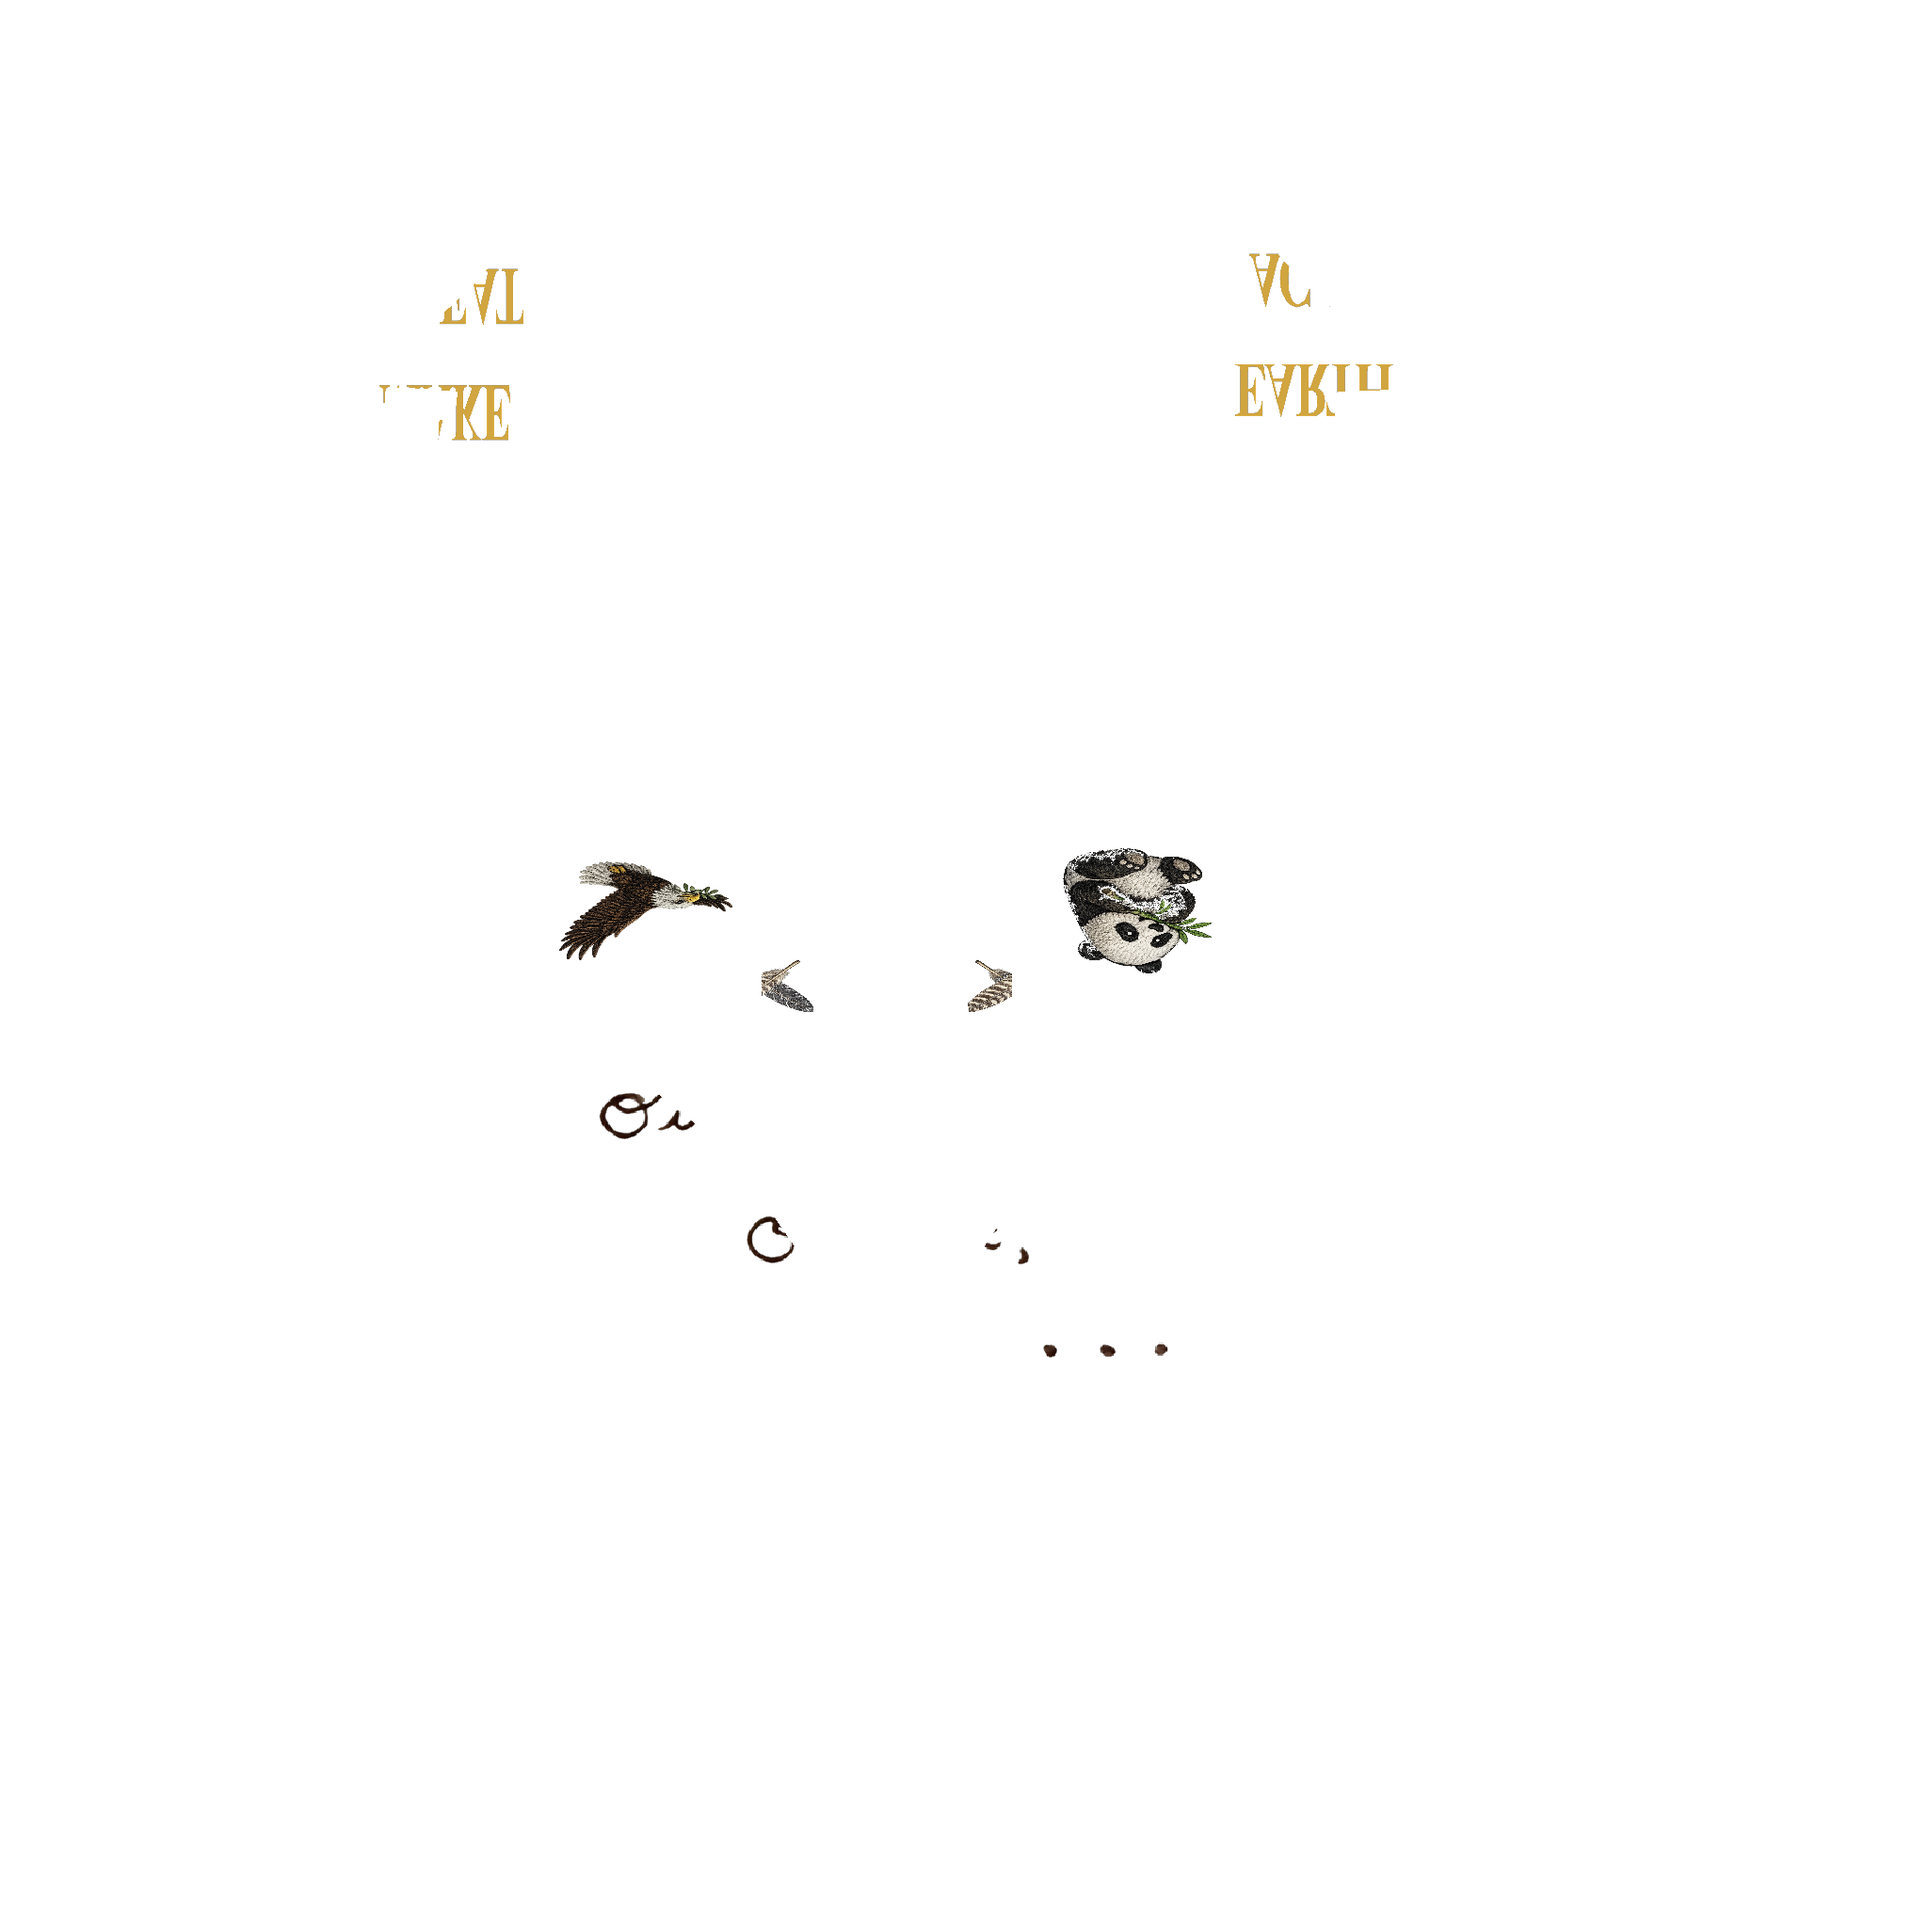
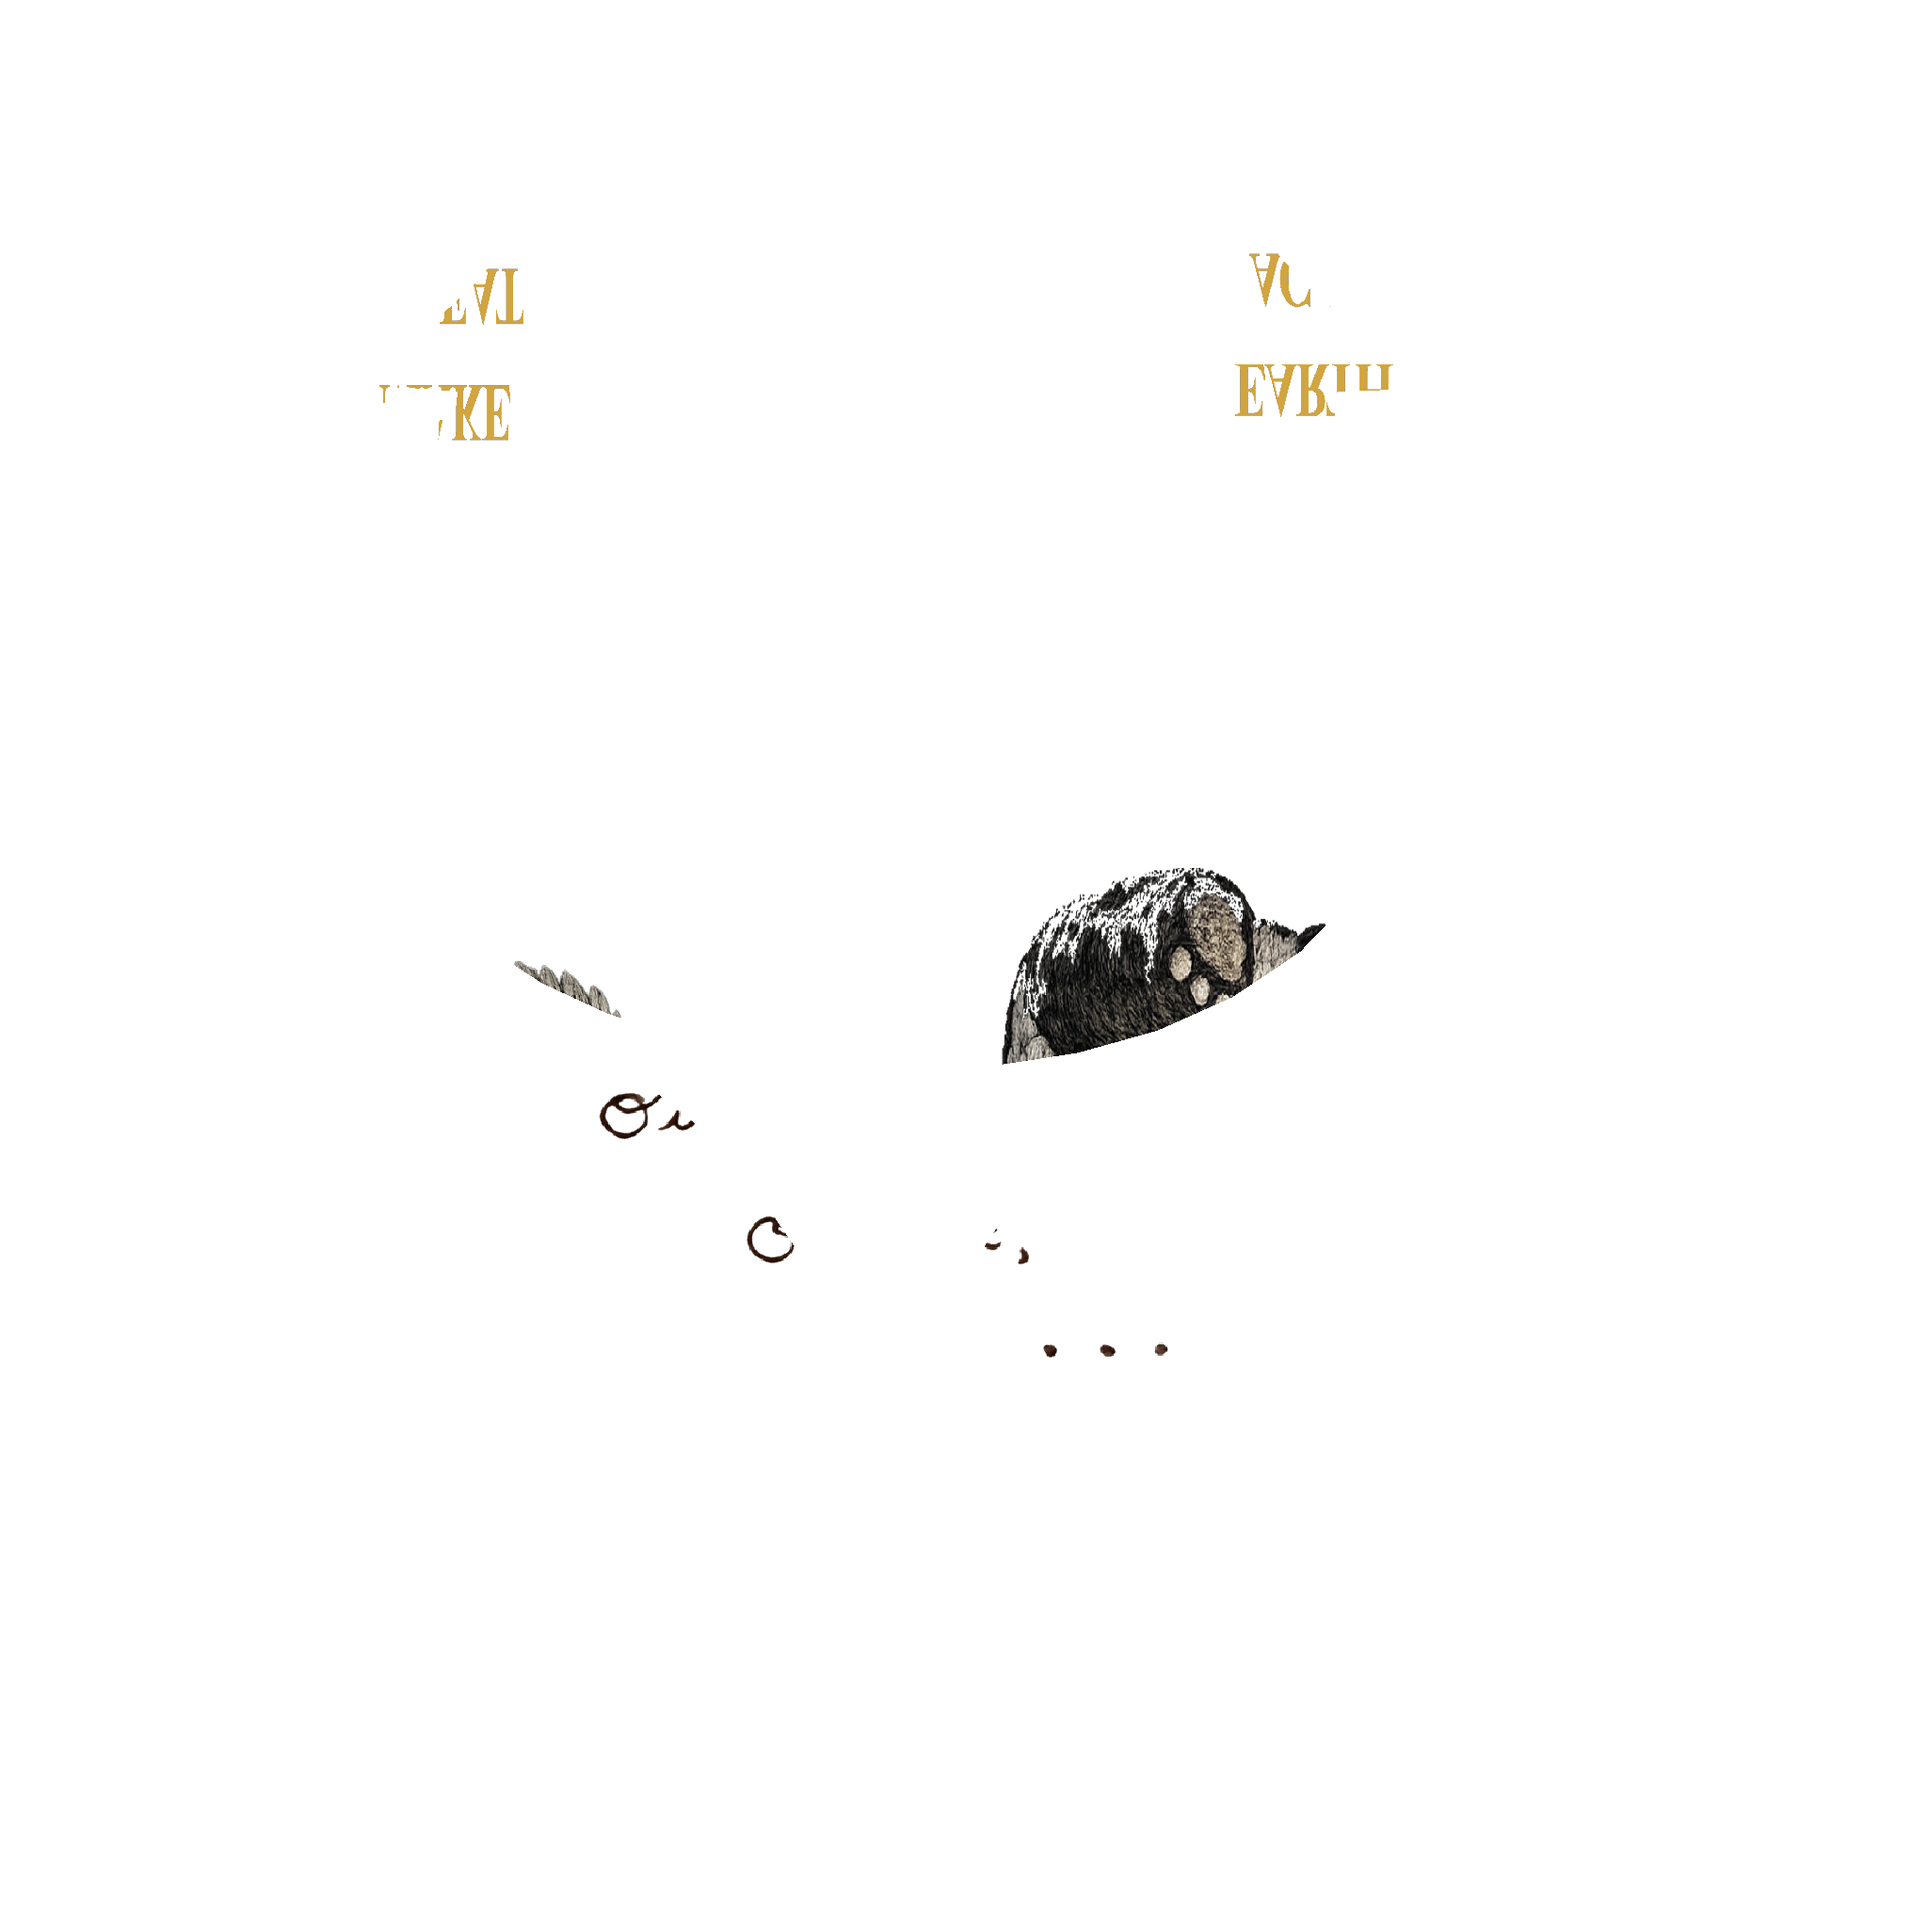
diag: paint giant eagle/panda covering back-panel UV

Changed region(s): [[0.5, 0.4375, 0.6875, 0.5625], [0.2812, 0.4375, 0.375, 0.5312], [0.375, 0.5, 0.4375, 0.5312]]

diff --git a/scripts/bake_cap_decals.py b/scripts/bake_cap_decals.py
@@ -400,13 +400,10 @@ def anchor_in_bbox(b, frac_w, frac_h, anchor_u=0.5, anchor_v=0.5):
 # To go LOW on the cap (above strap), use lower V (closer to 0.50).
 # To go HIGH (toward apex), use higher V (toward 0.58).
 # User wants eagle+panda DOWN → keep V near low-mid back range.
-# Back panel UV ranges (from script measurement):
-#   outer-LEFT  back: U=[0.277, 0.452], V=[0.441, 0.582]
-#   outer-RIGHT back: U=[0.470, 0.644], V=[0.446, 0.579]
-# Push eagle/panda toward outer corners (LOW U on left, HIGH U on right).
-# Use mid-low V (≈0.50–0.55) for "above strap, lower-back" placement.
-eagle_bbox = (0.290, 0.495, 0.380, 0.560)
-panda_bbox = (0.545, 0.495, 0.635, 0.560)
+# DIAGNOSTIC: paint giant eagle covering most of back-LEFT panel UV
+# to find which UV region actually renders on visible back of cap.
+eagle_bbox = (0.18, 0.10, 0.45, 0.55)
+panda_bbox = (0.50, 0.10, 0.77, 0.55)
 hit_log['eagle'] = paint_in_uv_bbox(
     eagle_bbox, dimg['eagle'], 0.0, 1.0, 0.0, 1.0,
     tris_by_iid[iid_left], flip_v=True) if eagle_bbox else 0
@@ -416,9 +413,9 @@ hit_log['panda'] = paint_in_uv_bbox(
 
 # FEATHERS centered above the back-hat-hole, split across the cap-center seam.
 # Lower V than apex, but above the strap/hole. Anchor at the seam (u=1.0 on L, u=0.0 on R).
-# Feathers centered above the hat-hole, just below eagle/panda level.
-feathers_L_bbox = (0.395, 0.460, 0.450, 0.520)
-feathers_R_bbox = (0.470, 0.460, 0.525, 0.520)
+# Disable feathers during diagnostic
+feathers_L_bbox = None
+feathers_R_bbox = None
 hit_log['feathers_L'] = paint_in_uv_bbox(
     feathers_L_bbox, dimg['feathers'], 0.5, 1.0, 0.0, 1.0,
     tris_by_iid[iid_left], flip_v=True) if feathers_L_bbox else 0
